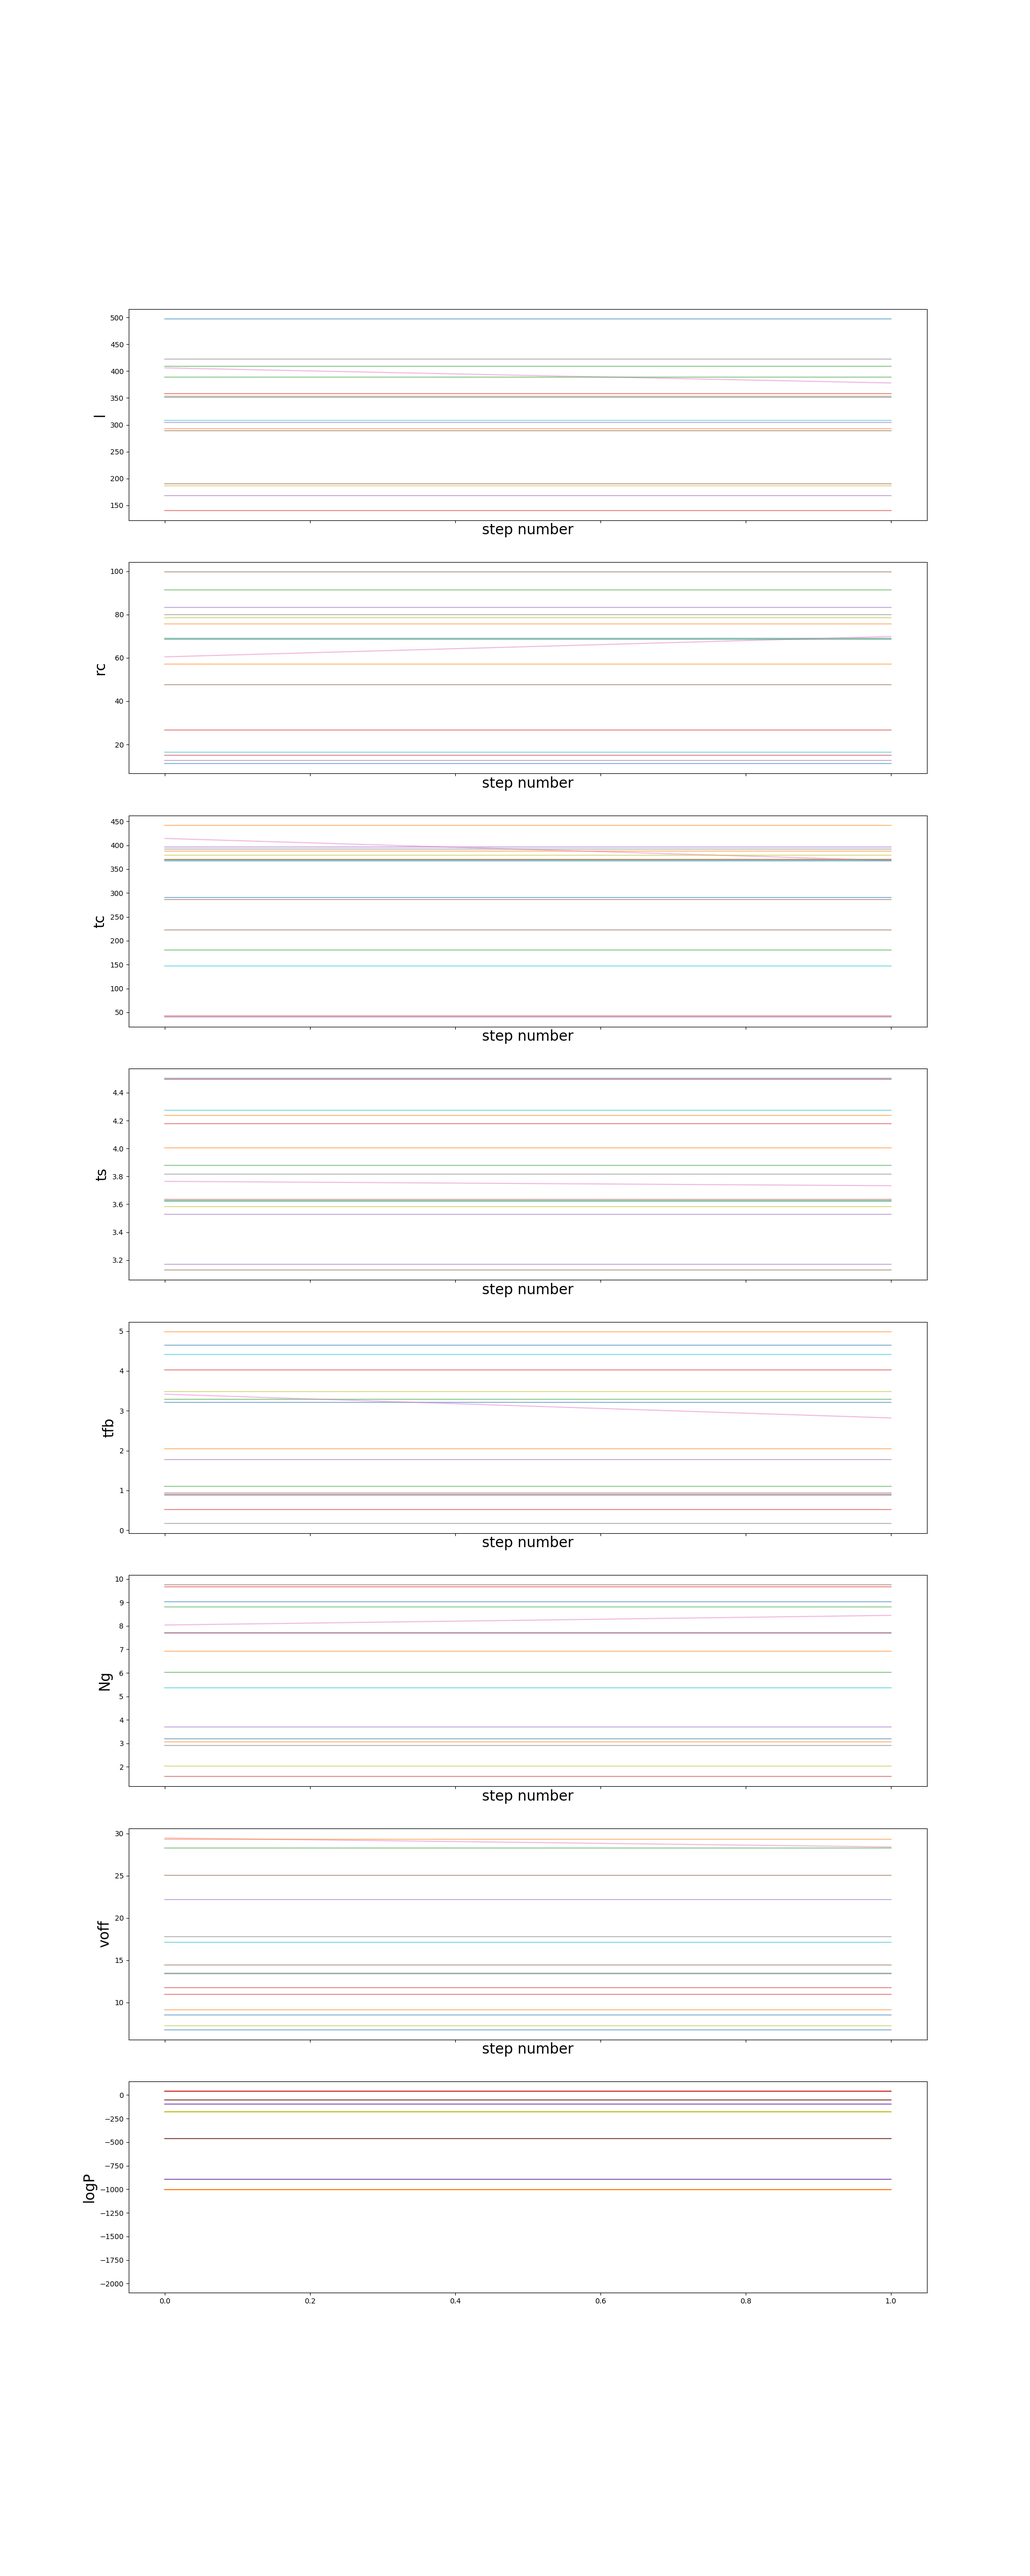
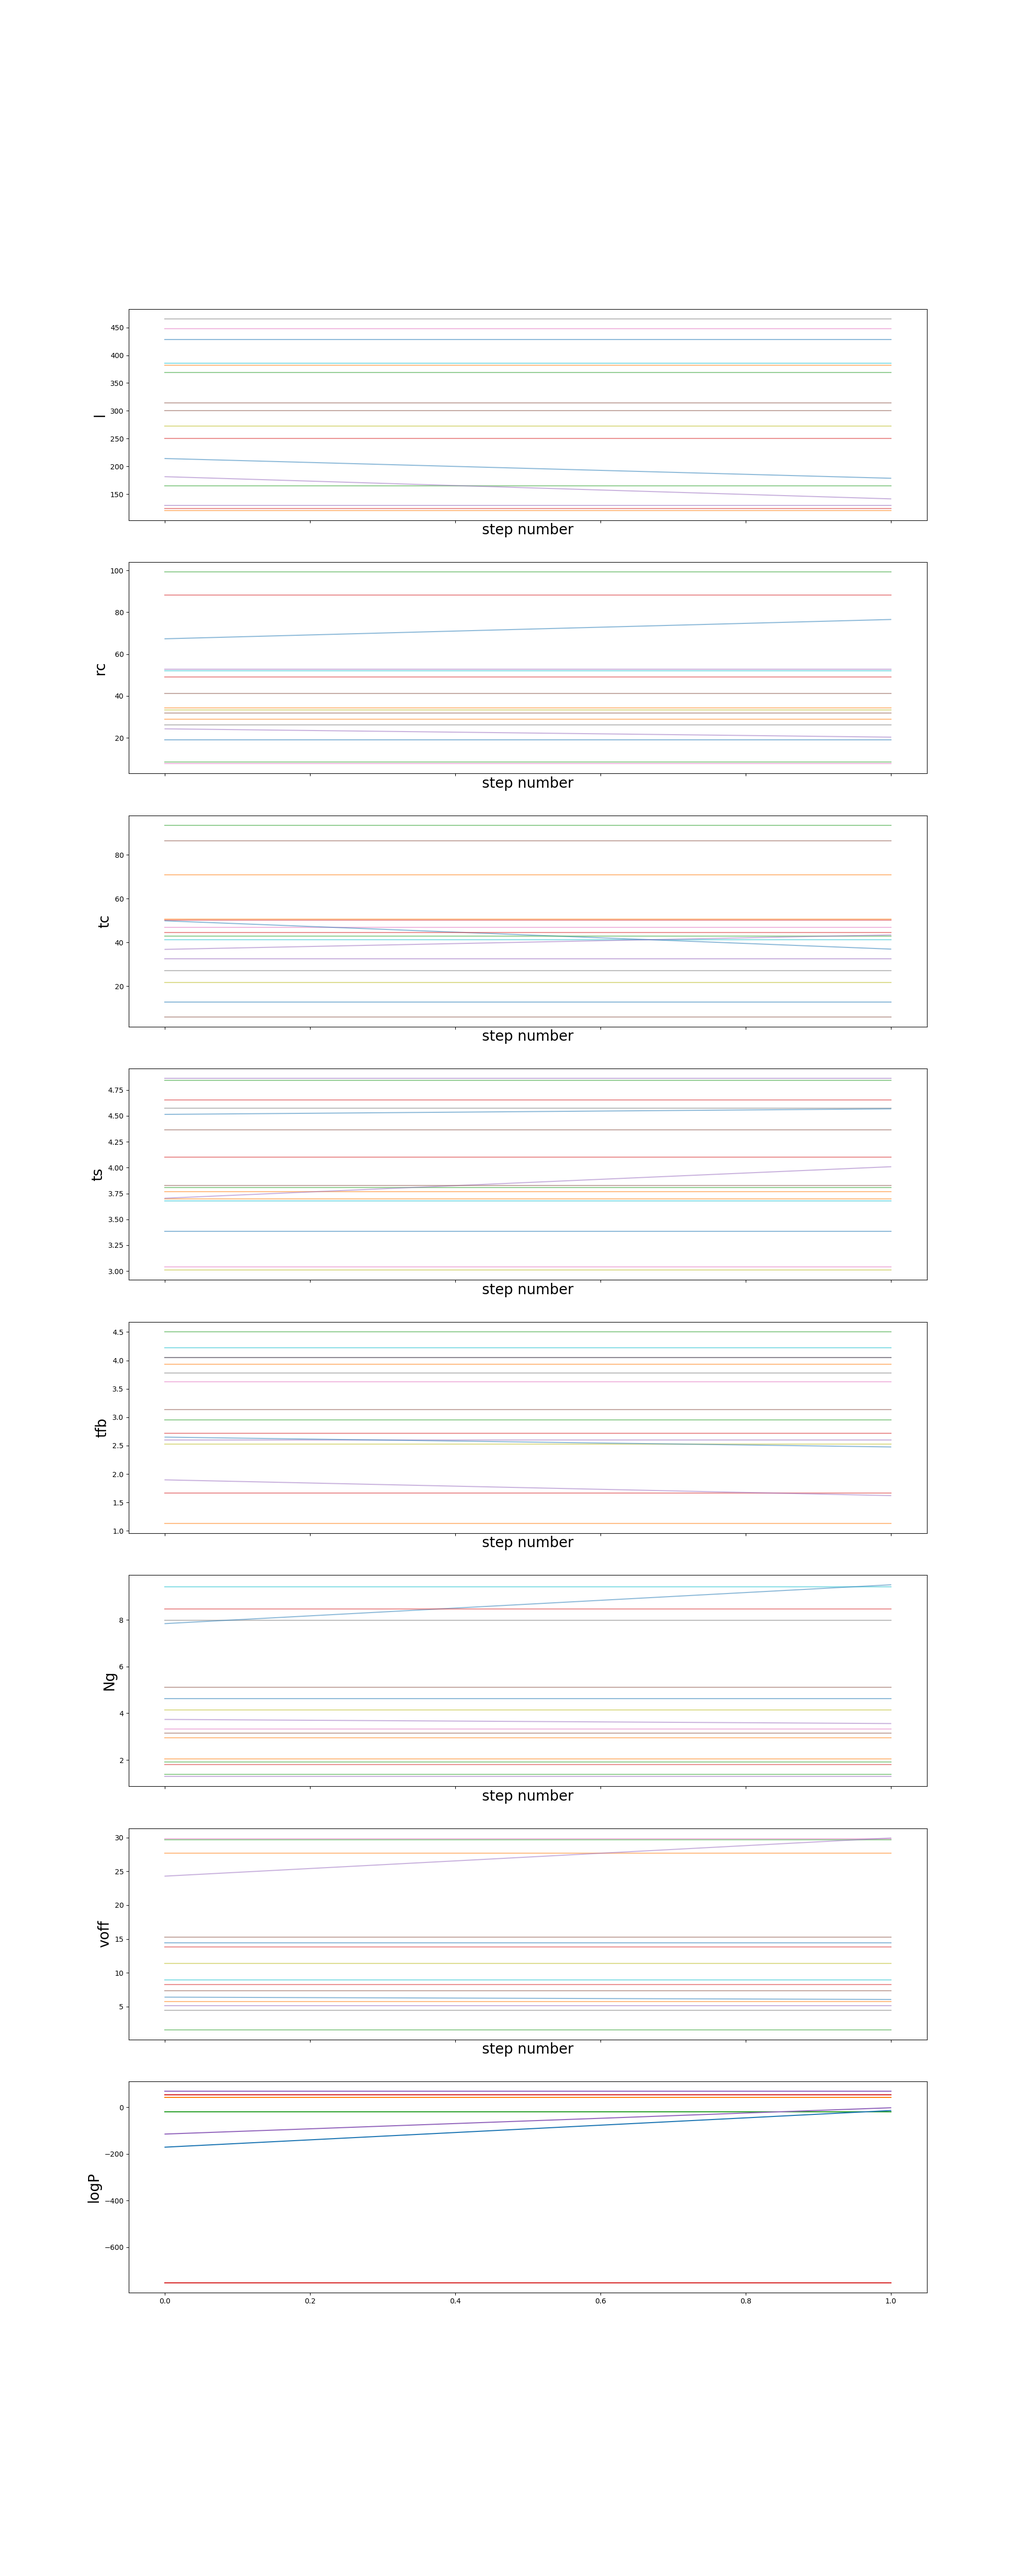
redy to run on memex

diff --git a/fitmodel.py b/fitmodel.py
@@ -55,7 +55,7 @@ selr=(r0obs<=500)
 # Define prior parameter space
 lrange=np.array([50,500])
 rcrange=np.array([5,100])
-tcrange=np.array([1,500])
+tcrange=np.array([1,100])
 tsrange=np.array([3,5])  # from Chevance et al.
 tfbrange=np.array([0.1,5]) # for Chevance et al. 
 Ngrange=np.array([1,10])
@@ -158,13 +158,13 @@ ax.set_xlabel('r [pc]', fontsize=20)
 ax.set_ylabel(r'$\omega(r)$ [pc]', fontsize=20)
 ax.set_title(galaxy+" ; fhg="+"{:.2f}".format(fhgobs)+" ("+"{:.2f}".format(efhgobs)+")", fontsize=30)
 ax.tick_params(labelsize=20)
-ax.plot([0], [0], label="l="+"{:.2f}".format(pbest[0]))
-ax.plot([0], [0], label="rc="+"{:.2f}".format(pbest[1]))
-ax.plot([0], [0], label="tc="+"{:.2f}".format(pbest[2]))
-ax.plot([0], [0], label="ts="+"{:.2f}".format(pbest[3]))
-ax.plot([0], [0], label="tfb="+"{:.2f}".format(pbest[4]))
-ax.plot([0], [0], label="Ng="+"{:.2f}".format(pbest[5]))
-ax.plot([0], [0], label="voff="+"{:.2f}".format(pbest[6]))
+ax.plot([0], [0], color='white', label="l="+"{:.2f}".format(pbest[0]))
+ax.plot([0], [0], color='white', label="rc="+"{:.2f}".format(pbest[1]))
+ax.plot([0], [0], color='white', label="tc="+"{:.2f}".format(pbest[2]))
+ax.plot([0], [0], color='white', label="ts="+"{:.2f}".format(pbest[3]))
+ax.plot([0], [0], color='white', label="tfb="+"{:.2f}".format(pbest[4]))
+ax.plot([0], [0], color='white', label="Ng="+"{:.2f}".format(pbest[5]))
+ax.plot([0], [0], color='white', label="voff="+"{:.2f}".format(pbest[6]))
 ax.legend(fontsize=20)
 plt.savefig('./plots/'+galaxy+'_corr_model.png')
 #plt.show()
